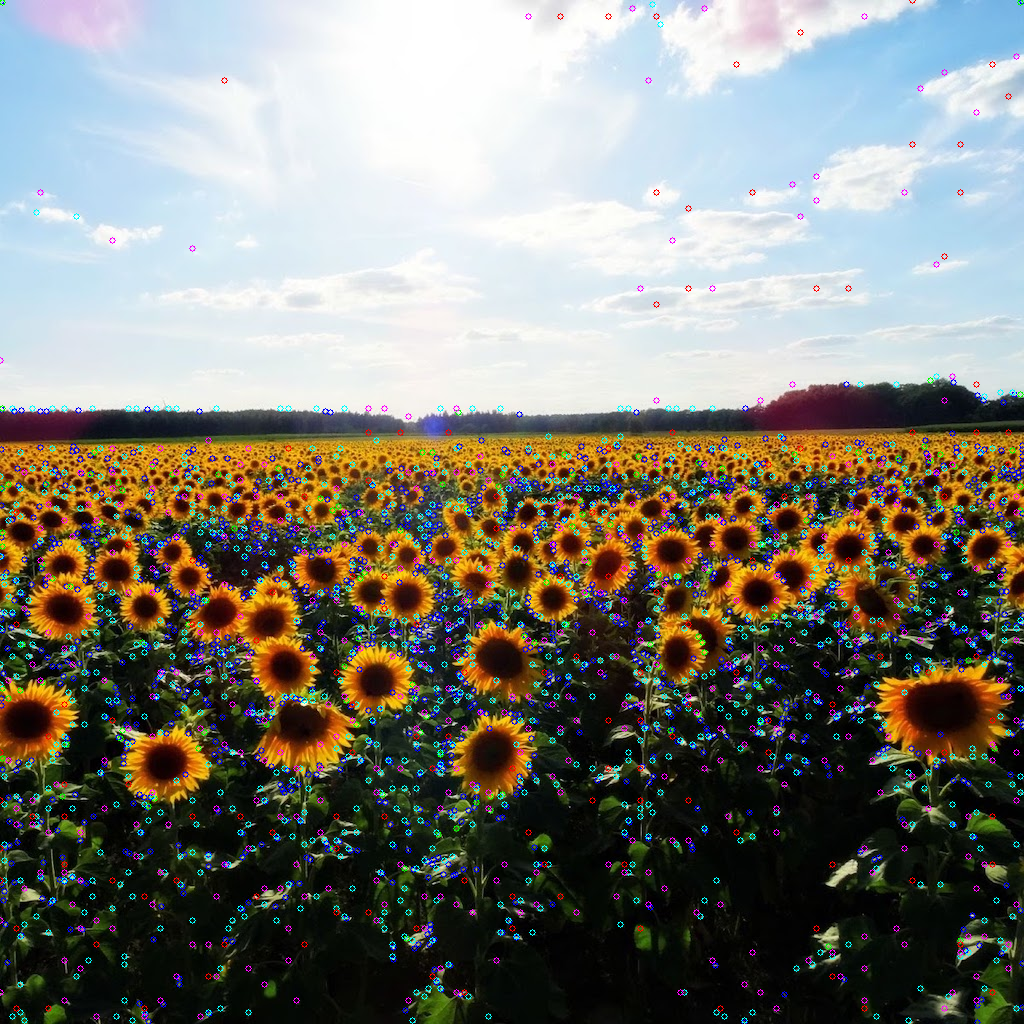
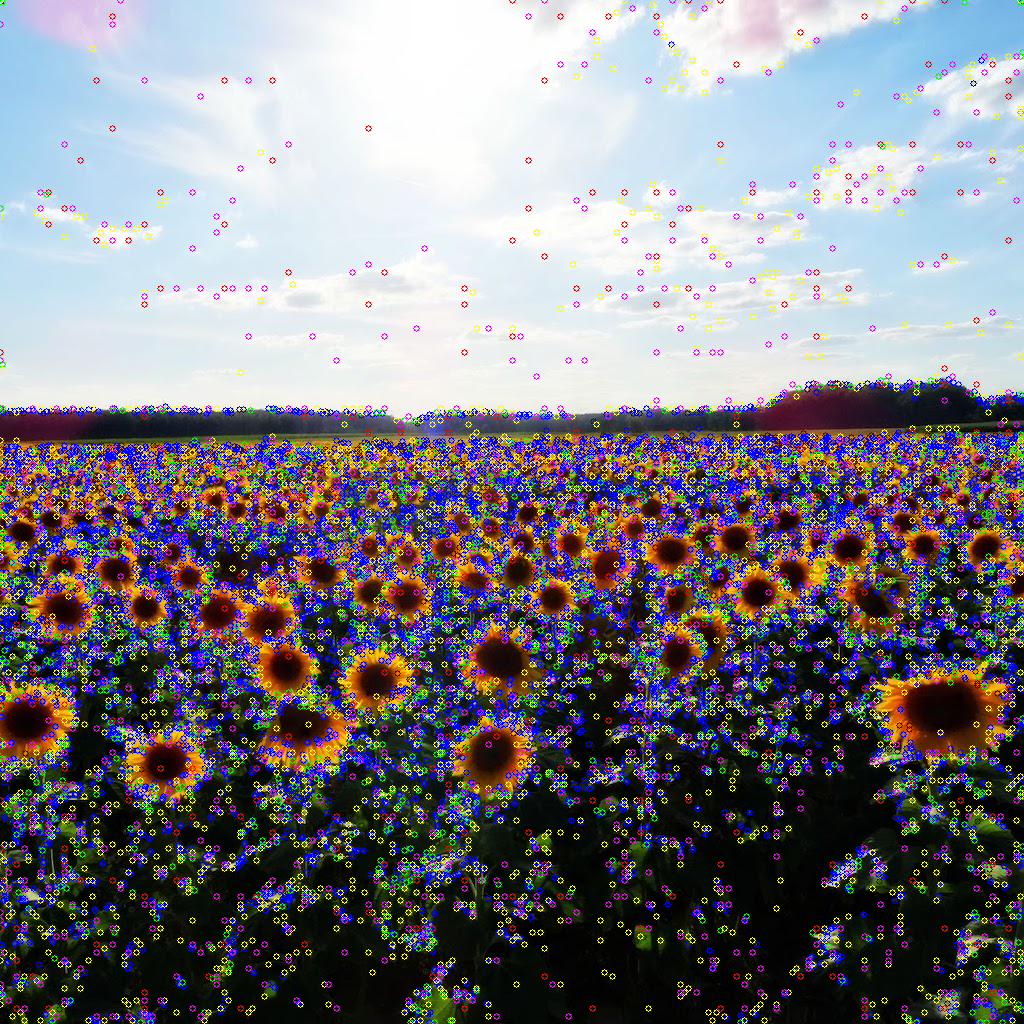
420 A2 finished

diff --git a/Assignment2/A2code.py b/Assignment2/A2code.py
@@ -12,7 +12,7 @@ def Q1_plot():
     plt.stem(x, y, linefmt='blue', markerfmt=" ", basefmt=" ", use_line_collection=True)
     plt.title("Interpolated signals")
     plt.savefig("Q1.png")
-    plt.show()
+
 def Gaussian_2D(size, sigma):
     """
     Generate a gaussian kernel with respect to size and sigma
@@ -35,67 +35,83 @@ def Gaussian_2D(size, sigma):
         normalized_kernel = kernel / np.sum(kernel)
         return normalized_kernel
 
+def Resize_to_half_and_tenth(imageName):
+    """
+    Create image at half and 1/10 the original scale
+    :param imageName: Name of the image
+    :return: None
+    """
+    image = cv.imread(imageName)
+    half = cv.resize(image, (int(image.shape[1]/2), int(image.shape[0]/2)))
+    tenth = cv.resize(image, (int(image.shape[1]/10), int(image.shape[0]/10)))
+    cv.imwrite(imageName[0:-4]+'_half.png', half)
+    cv.imwrite(imageName[0:-4]+'_1_tenth.png', tenth)
 
-def Harris_Corner_Detector(imgName, window_size, threshold, a=0.06, supply_image=None, smooth=True, saveImage=True):
+def Harris_Corner_Detector(imgName, window_size, threshold, a=0.06, smooth_image=False, saveImage=True):
     """
     Produce a image where detected connors are circled in red
     :param imgName:     Name of the target image
     :param window_size: Patch size of the image
     :param threshold:   Threshold for R
     :param a:           value of a
+    :param smooth_image: Option for smooth the image or not
+    :param saveImage:    Option for saving image or not
     :return:            None
     """
     # Obtain grey scale image
-    if supply_image is None:
-        colour = cv.imread(imgName)
-        image = cv.cvtColor(colour, cv.COLOR_RGB2GRAY)
-    else:
-        colour = supply_image
-        image = supply_image
+
+    colour = cv.imread(imgName)
+    image = cv.cvtColor(colour, cv.COLOR_RGB2GRAY)
+    if smooth_image:
+        image = cv.GaussianBlur(image, (window_size, window_size), 1)
     # Calculate the gradient
-    if smooth:
-        image = cv.GaussianBlur(cv.cvtColor(colour, cv.COLOR_RGB2GRAY), (5, 5), 1)
-    Gaussian = Gaussian_2D(window_size, 1)
-    # Gaussian = np.ones((window_size, window_size))
-    gradients = np.gradient(image)
-    dy = gradients[0]
-    dx = gradients[1]
+    dy = cv.Sobel(image, cv.CV_64F, 1, 0, ksize=5)
+    dx = cv.Sobel(image, cv.CV_64F, 0, 1, ksize=5)
 
-    # Generate a gaussian kernel
-
-    dxdy = sp.convolve2d(dx*dy, Gaussian, mode='same', boundary='fill', fillvalue=0)
-    dx_2 = sp.convolve2d(np.square(dx), Gaussian, mode='same', boundary='fill', fillvalue=0)
-    dy_2 = sp.convolve2d(np.square(dy), Gaussian, mode='same', boundary='fill', fillvalue=0)
+    # Calculate moment matrix components
+    dxdy = cv.GaussianBlur(dx*dy, (window_size, window_size), 1)
+    dx_2 = cv.GaussianBlur(dx*dx, (window_size, window_size), 1)
+    dy_2 = cv.GaussianBlur(dy*dy, (window_size, window_size), 1)
     R_field = np.empty((dx.shape[0], dx.shape[1]), dtype=np.float64)
+
     for y in range(9, dx.shape[0]):
         for x in range(0, dx.shape[1]):
             M = np.array([[dx_2[y, x], dxdy[y, x]],
                           [dxdy[y, x], dy_2[y, x]]])
 
+            # Calculate eigenvalues and traces
             eigen_values = np.linalg.eigvals(M)
-            R = eigen_values[0] * eigen_values[1] - a * (np.sum(eigen_values) ** 2)
+            R = dx_2[y, x]*dy_2[y, x] - dxdy[y, x]**2 - a * (np.sum(eigen_values) ** 2)
             R_field[y, x] = R
-
+    # Calculate the percentiles
     percentile = np.percentile(R_field, threshold)
     for y in range(9, dx.shape[0]):
         for x in range(0, dx.shape[1]):
+            # Use percentile to screen out weak corners
             if R_field[y][x] > percentile and saveImage:
                 cv.circle(colour, (x, y), 1, (0, 0, 255))
-
     if saveImage:
-        cv.imwrite(imgName[0:-4] + '_t' + str(threshold) + '_' + 'cornor_detect.png', colour)
+        cv.imwrite(imgName[0:-4] + '_t' + str(threshold)+'_' + str(smooth_image) + '_' + 'cornor_detect.png', colour)
     return R_field
 
 def Gaussian_pyramid(imgName):
+    """
+    Generate Gaussian pyramids
+    :param imgName: name of the image
+    :return: Different levels of the pyramid
+    """
     targetImage = cv.imread(imgName)
     greyScale = cv.cvtColor(targetImage, cv.COLOR_RGB2GRAY)
     pyramids = []
+
+    # Generate levels of the pyramid
     for i in range(0, 7):
         kernel = Gaussian_2D(5,2**i)
         blur = sp.convolve2d(greyScale, kernel, mode='same')
         resized_image = cv.resize(blur, (int(blur.shape[0]/(2**i)), int(blur.shape[1]/(2**i))))
         pyramids.append(resized_image)
 
+    # Composite the image
     composite = np.zeros((greyScale.shape[0], greyScale.shape[1] + int(greyScale.shape[1]/2)), dtype=int)
     composite[:greyScale.shape[0], :greyScale.shape[1]] = pyramids[0]
 
@@ -110,6 +126,11 @@ def Gaussian_pyramid(imgName):
     return pyramids
 
 def Laplacian_pyramid(imgName):
+    """
+    Generate Laplacian pyramids
+    :param imgName: Name of the image
+    :return:        Different levels of the pyramid
+    """
     targetImage = cv.imread(imgName)
     greyScale = cv.cvtColor(targetImage, cv.COLOR_RGB2GRAY)
     pyramids = []
@@ -120,11 +141,14 @@ def Laplacian_pyramid(imgName):
         pyramids.append(resized_image)
     DoGs = []
     normalized_DoGs = []
+
+    # Create levels for the laplacian pyramids
     for i in range(0, 6):
         upsample = cv.resize(pyramids[i + 1], (int(pyramids[i + 1].shape[0]) * 2, int(pyramids[i + 1].shape[1]) * 2))
         DoGs.append(pyramids[i] - upsample)
         normalized_DoGs.append((pyramids[i] - upsample)*255/np.max((pyramids[i] - upsample)))
 
+    # Generate composite image
     composite = np.zeros((greyScale.shape[0], greyScale.shape[1] + int(greyScale.shape[1] / 2)), dtype=int)
     composite[:greyScale.shape[0], :greyScale.shape[1]] = DoGs[0]
     composite_normalized = np.zeros((greyScale.shape[0], greyScale.shape[1] + int(greyScale.shape[1] / 2)), dtype=int)
@@ -138,6 +162,7 @@ def Laplacian_pyramid(imgName):
         composite[row:row + y, col:col + x] = p
         row += y
 
+    # Generate composite image for normalized laplacian
     row = 0
     col = greyScale.shape[1]
     for p in DoGs[1:]:
@@ -150,15 +175,25 @@ def Laplacian_pyramid(imgName):
     cv.imwrite("Laplacian_pyramid_normalized.png", composite_normalized)
     return DoGs
 
+# Q7
 def local_max(original_img, threshold):
+    """
+    This function generate keypoints for Question 7
+    :param original_img: Name of the image
+    :param threshold:    Threshold for detecting strong extrema
+    """
     colour = cv.imread(original_img)
     LoGs = Laplacian_pyramid(original_img)
     position_vectors = []
-    draw_colour = [(255, 0, 0), (0, 255, 0), (255, 255, 0), (255, 0, 255), (0, 0, 255)]
+    # Colors use for drawing circles
+    draw_colour = [(255, 0, 0), (0, 255, 0), (0, 255, 255), (255, 0, 255), (0, 0, 255)]
+
     for i in range(0, 5):
         neighbors = None
         rows = LoGs[i].shape[0]
         col = LoGs[i].shape[1]
+        # Scale the neighbour pyramid level to the same size as the current level and put them into a 3 dimensional
+        # array for the convince of determine extrema
         if i == 0:
             neighbors = np.empty((rows, col, 2))
             neighbors[:, :, 0] = LoGs[i]
@@ -173,14 +208,18 @@ def local_max(original_img, threshold):
             for x in range(0, col):
 
                 value = neighbors[y, x, 0]
+                # make sure the index does not go out of bounds
                 y_coord = np.clip([y - 1, y + 2], 0, rows)
                 x_coord = np.clip([x - 1, x + 2], 0, col)
                 region = neighbors[y_coord[0]:y_coord[1], x_coord[0]:x_coord[1], :]
 
-                if np.max(region) == value:
-                    temp = -1 * region + value
-                    temp[y - y_coord[0], x - x_coord[0], 0] = threshold
-                    if np.min(temp) >= threshold:
+                #
+                if np.max(region) == value or np.min(region) == value:
+                    temp1 = -1 * region + value
+                    temp2 = -1 * region + value
+                    temp1[y - y_coord[0], x - x_coord[0], 0] = threshold
+                    temp2[y - y_coord[0], x - x_coord[0], 0] = -threshold
+                    if np.min(temp1) >= threshold or np.max(temp2) <= -threshold:
                         position_vectors.append([y*2**i, x*2**i, i])
 
     for v in position_vectors:
@@ -192,13 +231,15 @@ def local_max(original_img, threshold):
 
 if __name__ =="__main__":
     Q1_plot()
-    # Harris_Corner_Detector('shapes.png', 5, 1e5,smooth=True)
-    # Harris_Corner_Detector('shapes_half.png', 15, 1e5,smooth=True)
-    # Harris_Corner_Detector('shapes_1_tenth.png', 5, 1e5,smooth=True)
-    # Harris_Corner_Detector('shapes.png', 5, 1e5, smooth=True)
-    # Harris_Corner_Detector('cnTower.jpg', 5, 99.5, smooth=True)
-    # Harris_Corner_Detector('cnTower_half.png', 5, 1e5,smooth=True)
-    # Harris_Corner_Detector('cnTower_1_tenth.png', 5, 1e5,smooth=True)
-    # Gaussian_pyramid('sunflower.jpg')
-    # Laplacian_pyramid('sunflower.jpg')
-    # local_max("sunflower.jpg", 3)
+    Resize_to_half_and_tenth('shapes.png')
+    Resize_to_half_and_tenth('cnTower.jpg')
+    Harris_Corner_Detector('shapes.png', 5, 99, smooth_image=False)
+    Harris_Corner_Detector('shapes.png', 5, 99, smooth_image=True)
+    Harris_Corner_Detector('shapes_half.png', 5, 99, smooth_image=True)
+    Harris_Corner_Detector('shapes_1_tenth.png', 5, 99, smooth_image=True)
+    Harris_Corner_Detector('cnTower.jpg', 5, 99, smooth_image=True)
+    Harris_Corner_Detector('cnTower_half.png', 5, 99, smooth_image=True)
+    Harris_Corner_Detector('cnTower_1_tenth.png', 5, 99, smooth_image=True)
+    Gaussian_pyramid('sunflower.jpg')
+    Laplacian_pyramid('sunflower.jpg')
+    local_max("sunflower.jpg", 1)
